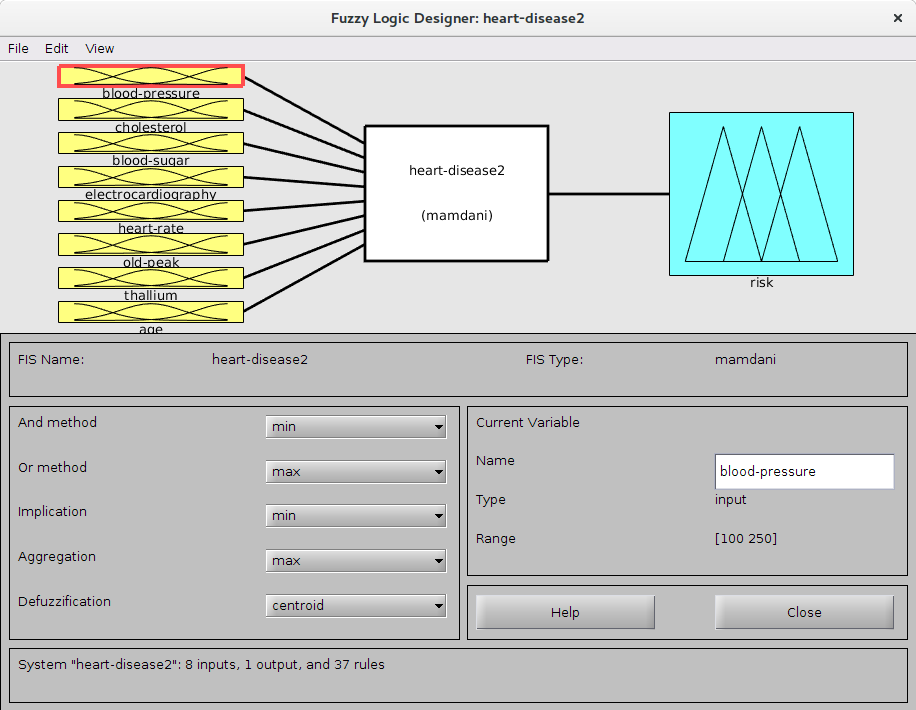
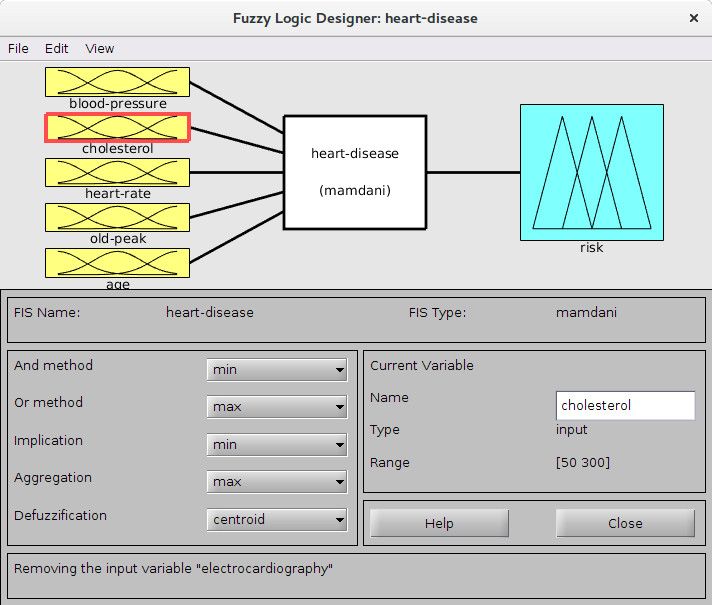
Menos variables

diff --git a/Trabajo/README.md b/Trabajo/README.md
@@ -4,7 +4,7 @@
 
 ## Introducción
 
-En la medicina los médicos usan a veces variables precisas como pueden ser el peso, la altura, la frecuencia cardiaca en reposo, pero en la mayoría de las ocasiones usa otras con más vaguedad como puede ser el grado de dolor de cabeza que sufre el paciente, el ejercicio que realiza diariamente e incluso algunas de las variables precisas mencionadas anteriormente como la frecuencia cardiaca.
+En la medicina los médicos usan a veces variables precisas como pueden ser el peso, la altura, la frecuencia cardiaca en reposo, pero en la mayoría de las ocasiones usa otras con más vaguedad como puede ser el grado de dolor de cabeza que sufre el paciente, el ejercicio que realiza diariamente e incluso algunas de las variables precisas mencionadas anteriormente como la frecuencia cardiaca o la edad. Porque un individuo con 30 años ¿es una persona joven o empieza a ser considerado mayor?
 
 Es por esto que la aplicación de la lógica difusa en este campo ha tenido bastante importancia que se ve reflejada en el número de papers que se publican sobre esto [1]:
 
@@ -34,7 +34,7 @@ La medicina es un campo muy extenso y como se ha mencionado anteiormente el núm
 
 Se ha usado un *dataset* basado en los datos obtenidos en el V. A. Medical Center en Long Beach y la Cleveland Clinic Foundation y clasificados por la Universidad de California.
 
-El propósito de este dataset es diagnosticar la presencia o ausencia de riesgo de enfermedad cardiaca que pueda tener un paciente. Originalmente el *dataset* contaba con 76 variables y 303 pacientes, pero para desarrollar este sistema difuso se han utilizado tan solo las nueve más significativas (8 de entrada y 1 de salida).
+El propósito de este dataset es diagnosticar la presencia o ausencia de riesgo de enfermedad cardiaca que pueda tener un paciente. Originalmente el *dataset* contaba con 76 variables y 303 pacientes, pero para desarrollar este sistema difuso se han utilizado tan solo las seis más significativas (5 de entrada y 1 de salida).
 
 Las variables de entrada son:
 
@@ -42,18 +42,22 @@ Las variables de entrada son:
 | ------------------------- | ---------------- |
 | Presión arterial          | mmHg             |
 | Colesterol LDL            | mg/dl            |
-| ECG                       | s                |
 | Frecuencia cardiaca       | latidos/m        |
-| Glucosa en sangre         | mg/dl            |
 | Depresión del segmento ST | mV               |
-| Escáner con talio         | -                |
 | Edad                      | años             |
 
 Y el de salida indica el porcentaje de riesgo de enfermedad cardiaca del individuo.
 
+El objetivo es poder diagnosticar el riesgo de una persona de que sufra una enfermedad cardiaca a corto-medio plazo usando variables que tienen bastante influencia. Porque no es algo que se pueda determinar con precisión teniendo solo en cuenta el colesterol la presión arterial o la frecuencia cardiaca media.
+
 ### Fuzzificar
 
-El primer paso de todos es definir las *membership function* de cada variable para convertirlas en números difusos.
+El primer paso de todos es definir las *membership function* de cada variable para convertirlas en números difusos. Tenemos que convertir los valores obtenidos a objetos que se encuentran en uno o varios conjuntos con un grado de pertenencia. Por ejemplo:
+
+* 170 mmHG es una presión media con grado 0,13 y alta con grado 0,94.
+* 192 mg/dl de colesterol en sangre es un nivel bajo con grado 0,11 y medio con grado 0,07.
+
+Para obtener estos grados de pertenencia se utilizarán las funciones de membresía que se explicarán posteriormente.
 
 #### Entradas
 
@@ -61,7 +65,9 @@ Son todos los parámetros de entrada de un paciente que se *fuzzifican* como se 
 
 ##### Presión arterial sistólica
 
-Valor máximo de presión arterial cuando el corazón se contrae (sístole). Se mide en milímetros de mercurio (mmHg).
+Cuando el corazón late se producen dos movimientos. La sístole, cuando se contrae, y la diástole, cuando se dilata.
+
+A la hora de medir la presión arterial con un tensiómetro obtenemos dos valores, comunmente llamados alto y bajo. El alto es el que usaremos y es el valor máximo de presión arterial cuando el corazón realiza la sístole. Se mide en milímetros de mercurio (mmHg).
 
 La dividimos en cuatro valores difusos:
 
@@ -69,55 +75,35 @@ La dividimos en cuatro valores difusos:
 
 ##### Colesterol LDL
 
-Una mayor cantidad de colesterol LDL (*low-density lipoprotein*) se traduce en mayor riesgo de sufrir un ataque al corazón. Se mide en miligramos por decilitro de sangre (mg/dl).
+Uno de los mayores riesgos de sufrir un ataque al corazón es la presencia de un alto nivel de colesterol LDL (*low-density lipoprotein*) en sangre. Ya que bloquea las paredes arteriales impidiendo la circulación de la sangre.
+
+!["Colesterol"](img/colesterol.png)
+
+Una mayor cantidad de colesterol LDL se traduce en mayor riesgo de sufrir un ataque al corazón. Se mide en miligramos por decilitro de sangre (mg/dl).
 
 Lo dividimos en cuatro valores difusos:
 
 !["Colesterol fuzzy"](img/cholesterol.png)
 
-##### Electrocardiograma (ECG)
-
-El ECG es la representación de la actividad eléctrica del corazón. Se obtiene con ultrasonido usando un electrocardiógrafo.
-
-!["ECG"](img/ecg.png)
-
-En nuestro caso se mide en segundos la duración del segmento ST y la onda T.
-
-Lo dividimos en tres valores difusos:
-
-!["Electrocardiograma fuzzy"](img/electrocardiography.png)
-
 ##### Frecuencia cardíaca
 
-La frecuencia cardíaca es cuántas veces late el corazón por minuto. Se ha de medir en reposo.
+La frecuencia cardíaca es cuántas veces late el corazón por minuto. La media en reposo se encuentra entre 60 y 100 latidos por minuto. Cuando se realiza ejercicio incrementan los latidos linealmente y determinan la forma cardiorespiratoria de una persona.
 
 Lo dividimos en tres valores difusos:
 
 !["Frecuencia cardiaca fuzzy"](img/heart-rate.png)
 
-##### Glucosa en sangre
-
-Una persona con más de 120 mg/dl de glucosa en sangre es diabética lo que aumenta el riesgo de que le produzca un ataque al corazón.
-
-Vamos a usar un único valor difuso:
-
-!["Glucosa en sangre fuzzy"](img/blood-sugar.png)
-
 ##### Depresión del segmento ST
+
+El electrocardiograma (ECG) es la representación de la actividad eléctrica del corazón. Se obtiene con ultrasonido usando un electrocardiógrafo.
+
+!["ECG"](img/ecg.png)
 
 Medir la depresión del segmento ST durante el ejercicio puede ayudar a pronosticar una enfermedad del corazón. A mayor sea este, más posibilidades de sufrir un ataque al corazón. Se mide en mili voltios (mV).
 
 Se usarán tres variables difusas:
 
 !["Depresión del segmento ST fuzzy"](img/old-peak.png)
-
-##### Escáner con talio
-
-Con el escáner con talio se puede ver si zonas del corazón no reciben suficiente sangre.
-
-Se utilizarán tres valores difusos:
-
-!["Escáner con talio fuzzy"](img/thalium.png)
 
 ##### Edad
 
@@ -137,7 +123,7 @@ Para ello se usarán cinco variables difusas:
 
 ### Mecanismo de inferencia
 
-Se utiliza el método de Mamdani como mecanismo de inferencia difuso ya que es el que proporciona MatLab. Este método tiene una estructurabastante simple con operaciones *min-max*:
+Se utiliza el método de Mamdani como mecanismo de inferencia difuso ya que es el que proporciona MatLab. Este método tiene una estructura bastante simple con operaciones *min-max*:
 
 * *OR*: max
 * *AND*: min
@@ -156,14 +142,38 @@ Las reglas han sido creadas teniendo en cuenta tanto los resultados del *dataset
 
 Para obtener un resultado en forma de porcentaje y no en forma de variable difusa hay que defuzzificar, para ello, se utiliza el método de centroide. Es un método muy simple que calcula el centro del área obtenida tras aplicar las reglas a los datos de entrada.
 
+!["Métodos para defuzzificar"](img/defuzzification-schemes.png)
+
 ### Ejemplos de salidas
 
-| Presión | Colesterol | Glucosa | ECG | Frec. cardiaca | Depr. ST | Talio | Edad | Riesgo |
-| --  | --  | --  | --  | --  | --  | --  | --  | --  |
-| a | b | c | d | e | f | g | h | i |
-| a | b | c | d | e | f | g | h | i |
-| a | b | c | d | e | f | g | h | i |
-| a | b | c | d | e | f | g | h | i |
+Ya que los datos utilizados para la creación de este sistema difuso no han sido publicados, no he podido comprobar el éxito de este con datos reales. No obstante lo he probado con datos
+
+| Edad | Presión | Colesterol | Frecuencia cardiaca | Depresión segmento ST | Riesgo (fuzzy) | Riesgo (matemático) |
+| ---- | ------- | ---------- | ------------------- | --------------------- | -------------- | ------------------- |
+| 71   | 120     | 265        | 130                 | 0.24                  | 40             | 32                  |
+| 49   | 130     | 188        | 139                 | 2                     | 40             | 28                  |
+| 54   | 135     | 129        | 126                 | 0.1                   | 10             | 8                   |
+| 59   | 140     | 187        | 152                 | 0.1                   | 20             | 17                  |
+| 57   | 128     | 229        | 150                 | 0.14                  | 40             | 24                  |
+| 61   | 122     | 260        | 170                 | 3.6                   | 60             | 53                  |
+| 39   | 165     | 219        | 150                 | 1.2                   | 60             | 48                  |
+| 61   | 145     | 277        | 186                 | 1                     | 60             | 61                  |
+| 56   | 125     | 249        | 144                 | 1.2                   | 40             | 41                  |
+| 45   | 130     | 164        | 135                 | 0.16                  | 20             | 13                  |
+| 56   | 190     | 288        | 153                 | 4                     | 100            | 121                 |
+| 54   | 160     | 239        | 146                 | 1.8                   | 60             | 57                  |
+| 41   | 120     | 200        | 130                 | 0.1                   | 20             | 16                  |
+| 61   | 124     | 209        | 163                 | 0.1                   | 20             | 18                  |
+| 58   | 120     | 258        | 137                 | 0.14                  | 20             | 28                  |
+| 51   | 122     | 227        | 124                 | 0.1                   | 20             | 21                  |
+| 29   | 130     | 204        | 202                 | 0.1                   | 20             | 20                  |
+| 51   | 140     | 241        | 186                 | 0.1                   | 20             | 29                  |
+| 43   | 122     | 213        | 165                 | 0.12                  | 20             | 20                  |
+| 57   | 167     | 299        | 164                 | 1                     | 80             | 85                  |
+
+## Conclusiones
+
+Lala
 
 ## Referencias
 
